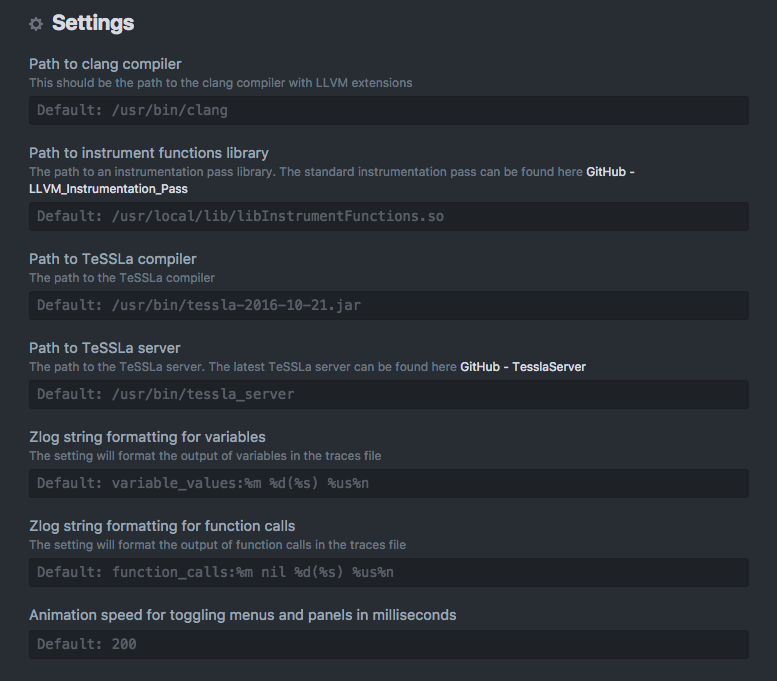
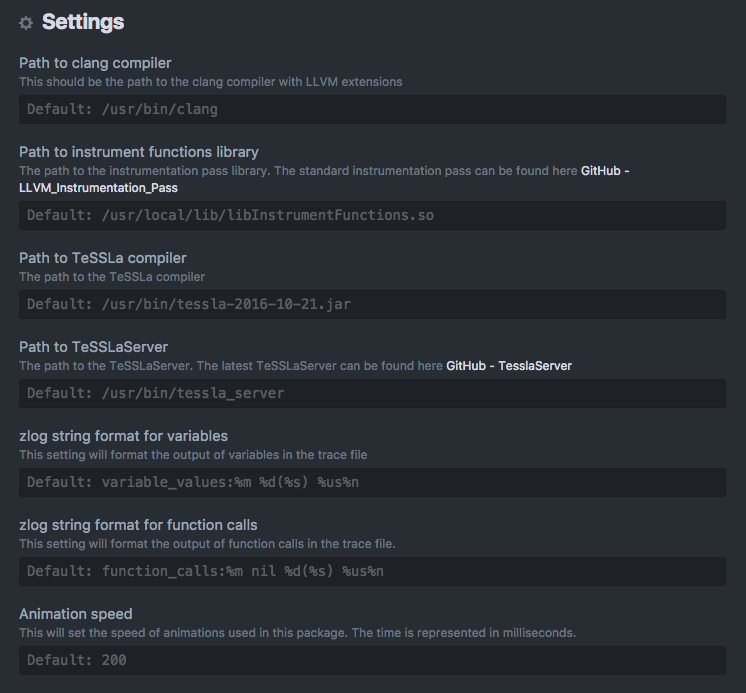
Changed settings image and description in read me

diff --git a/README.md b/README.md
@@ -121,15 +121,15 @@ There are some settings that are important to set before you can use all feature
 
 - _Path to TeSSLa server_: This should be the path were the TeSSLaServer is located on your system. The TeSSLaServer and further information about it can be found [here](https://github.com/imdea-software/TesslaServer)
 
-- _Zlog string formatting for variables_: This represents the format of how variables are formatted in the `.trace`-files. 
+- _zlog string format for variables_: This represents the format of how variables are formatted in the `.trace`-files. 
 
  **Note:** The default value will work for the TeSSLaServer linked above. Changing this value may cause problems when the TeSSLaServer is trying to interprete the `.trace` file.
   
-- _Zlog string formatting for function calls_: This represents the format of how function calls are formatted in the `.trace`-files.
+- _zlog string format for function calls_: This represents the format of how function calls are formatted in the `.trace`-files.
 
  **Note:** The default value will work for the TeSSLaServer linked above. Changing this value may cause problems when the TeSSLaServer is trying to interprete the `.trace` file.
   
-- _Animation speed for toggling menus and panels in milliseconds_: This value will adjust the speed of animations triggered in this package. The value represents milliseconds
+- _Animation speed_: This value will set the speed of animations triggered in this package. The value represents a duration milliseconds
   
 <p align="center">
   <img src="./images/Screenshots/settings.png">
